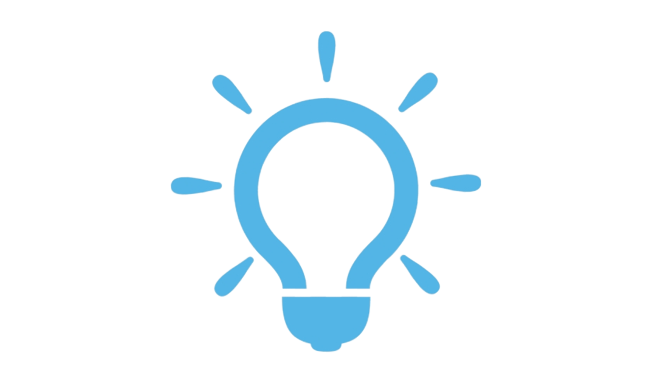
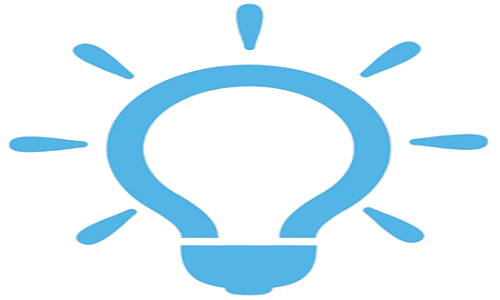
Many update make done

diff --git a/index.html b/index.html
@@ -8,7 +8,10 @@
     <link rel="stylesheet" href="css/style.css">
     <link rel="stylesheet" href="css/animation.css">
     <link rel="shortcut icon" href="images/favicon.png" type="image/x-icon">
+    <link rel="stylesheet" href="css/phone.css">
+    <script src="https://kit.fontawesome.com/502fabee15.js" crossorigin="anonymous"></script>
     <title>Sajibur Rahman </title>
+    <script src="https://kit.fontawesome.com/a076d05399.js"></script>
 </head>
 
 <body>
@@ -22,14 +25,17 @@
                     <img src="images/sa (1).gif" alt="">
                 </a>
             </div>
-            <nav>
+            <nav id="navMenu">
                 <a href="#mainIntro">Home</a>
                 <a href="#project">Projects</a>
-                <a href="">Contuct Me</a>
+                <a href="#contuct">Contuct Me</a>
                 <a href="#skill">Skills</a>
             </nav>
             <div class="header_btn_resume">
                 <a href="Documents/Md.Sajibur Rahman.pdf" target="_blank">Download Resume</a>
+            </div>
+            <div id="iconMenu">
+                <i onclick="menuHandaler()" class="fas fa-bars"></i>
             </div>
         </div>
     </header>
@@ -60,11 +66,16 @@
                     <img src="project/inventory.PNG" class="card-img-top" alt="...">
                     <div class="card-body">
                         <h2 class="card-title">Inventory Management System</h2>
-                        <p class="card-text">Some quick example text to build on the card title and make up the bulk
-                            of the card's content.</p>
+                        <p class="card-text">This is my first web project in University . I use html,css,php & mysqul to
+                            devlop the webpage.For server site, I use Xampp to store our data & create Crud operation in
+                            this project.This Project store the product information,edit information,read the
+                            information & search .I also implement the product order information & print that order .
+                        </p>
                         <div class="btn-link">
-                            <a href="">Live Link</a>
-                            <a href="">GitHub Repository</a>
+                            <a target="_blank" href="http://inventory-management.epizy.com/">Live Link</a>
+                            <a target="_blank"
+                                href="https://github.com/sajiburrahmansajib/DBMS-Project-Inventory-system-">GitHub
+                                Repository</a>
                         </div>
                     </div>
                 </div>
@@ -72,11 +83,17 @@
                     <img src="project/Alikehome.PNG" class="card-img-top" alt="...">
                     <div class="card-body">
                         <h2 class="card-title">Alike Home | Student Hostel</h2>
-                        <p class="card-text">Some quick example text to build on the card title and make up the bulk
-                            of the card's content.</p>
+                        <p class="card-text">We are going to introduce a platform which will help students to find
+                            suitable Hostel
+                            for them in a specific area. Hostel owners will also be able to advertise their hostel in
+                            our platform. Our stakeholders are Students and Hostel Owners.
+                            We will discuss our project motivation, scope & features, tools and techniques etc later on
+                            in this presentation.
+                        </p>
                         <div class="btn-link">
-                            <a href="">Live Link</a>
-                            <a href="">GitHub Repository</a>
+                            <a target="_blank" href="http://alikehome.rf.gd/">Live Link</a>
+                            <a target="_blank" href="https://github.com/sajiburrahmansajib/alikehome">GitHub
+                                Repository</a>
                         </div>
                     </div>
                 </div>
@@ -84,11 +101,16 @@
                     <img src="project/Pizza.PNG" class="card-img-top" alt="...">
                     <div class="card-body">
                         <h2 class="card-title">Pizza Order Counter</h2>
-                        <p class="card-text">Some quick example text to build on the card title and make up the bulk
-                            of the card's content.</p>
+                        <p class="card-text">This is my first React.Js project that i build . I build a pizza order
+                            counter that count the number of pizza order . I use change state method to build the simple
+                            project.In change state property,I use useState() method to change the counter value.I make
+                            a component & call it 3 time in different props value & show the component. Then i was
+                            diploy it in Github.</p>
                         <div class="btn-link">
-                            <a href="">Live Link</a>
-                            <a href="">GitHub Repository</a>
+                            <a target="_blank" href="https://sajiburrahmansajib.github.io/PizzaOrderCounter/">Live
+                                Link</a>
+                            <a target="_blank" href="https://github.com/sajiburrahmansajib/PizzaOrderCounter">GitHub
+                                Repository</a>
                         </div>
                     </div>
                 </div>
@@ -99,8 +121,11 @@
                         <p class="card-text">Some quick example text to build on the card title and make up the bulk
                             of the card's content.</p>
                         <div class="btn-link">
-                            <a href="">Live Link</a>
-                            <a href="">GitHub Repository</a>
+                            <a target="_blank" href="https://sajiburrahmansajib.github.io/Cryptocurrency-Finding/">Live
+                                Link</a>
+                            <a target="_blank"
+                                href="https://github.com/sajiburrahmansajib/Cryptocurrency-Finding">GitHub
+                                Repository</a>
                         </div>
                     </div>
                 </div>
@@ -111,8 +136,10 @@
                         <p class="card-text">Some quick example text to build on the card title and make up the bulk
                             of the card's content.</p>
                         <div class="btn-link">
-                            <a href="">Live Link</a>
-                            <a href="">GitHub Repository</a>
+                            <a target="_blank" href="https://admirable-bombolone-a15926.netlify.app/">Live Link</a>
+                            <a target="_blank"
+                                href="https://github.com/programming-hero-web-course2/best-five-dom-assignment-sajiburrahmansajib">GitHub
+                                Repository</a>
                         </div>
                     </div>
                 </div>
@@ -123,8 +150,10 @@
                         <p class="card-text">Some quick example text to build on the card title and make up the bulk
                             of the card's content.</p>
                         <div class="btn-link">
-                            <a href="">Live Link</a>
-                            <a href="">GitHub Repository</a>
+                            <a target="_blank" href="https://sajiburrahmansajib.github.io/Phone-Searching/">Live
+                                Link</a>
+                            <a target="_blank" href="https://github.com/sajiburrahmansajib/Phone-Searching">GitHub
+                                Repository</a>
                         </div>
                     </div>
                 </div>
@@ -195,7 +224,7 @@
                 </div>
                 <div class="languageSkill">
                     <div class="imgDiv">
-                        <img src="images/skill-removebg-preview.png" alt="">
+                        <img src="images/newskill-removebg-preview.png" alt="">
                     </div>
                     <div class="skill_title">
                         <h1>Skills </h1>
@@ -239,6 +268,7 @@
         })
 
     </script>
+    <script src="js/app.js"></script>
 </body>
 
 </html>

diff --git a/css/style.css b/css/style.css
@@ -51,6 +51,16 @@ header {
 
 .mainheader nav a:hover {
     background-color: lightslategrey;
+    transition: .20s;
+}
+
+#iconMenu {
+    color: #0ad171;
+    font-size: 30px;
+    line-height: 20px;
+    float: left;
+    margin-right: 50px;
+    display: none;
 }
 
 .mainheader .header_btn_resume a {
@@ -129,11 +139,22 @@ header {
 
 .card {
     border: 5px solid black;
-    width: 430px;
+    width: 450px;
     text-align: center;
     padding: 15px;
     box-shadow: 5px 5px 5px gray;
     border-radius: 10px;
+}
+
+.card img {
+    border-radius: 12px;
+}
+
+.card:hover {
+    z-index: 1;
+    box-shadow: 0px 8px 50px rgb(30, 104, 6);
+    transform: scale(1.02);
+    background-color: rgb(136, 190, 136);
 }
 
 .project_info {
@@ -181,11 +202,13 @@ header {
 .skillMain img {
     width: 50%;
     text-align: center;
-    border: 5px solid black;
-    border-radius: 200px;
+    border-radius: 100px;
+    background-color: #fff;
+    border: 4px solid crimson;
 }
 
 .imgDiv {
+    width: 380px;
     text-align: center;
 }
 
@@ -204,6 +227,7 @@ header {
     background-color: rgb(70, 64, 64);
     color: white;
     padding: 10px 0px;
+    margin-top: 15px;
 
 }
 

diff --git a/css/phone.css b/css/phone.css
@@ -1,0 +1,32 @@
+@media only screen and (min-width: 320px) and (max-width: 800px) {
+    #iconMenu {
+        display: block;
+    }
+
+    nav {
+        position: fixed;
+        width: 100%;
+        height: 50vh;
+        background-color: rgb(97, 104, 104);
+        top: 100px;
+        left: 0;
+        text-align: center;
+        display: flex;
+        flex-direction: column;
+        display: none;
+    }
+
+    .header_btn_resume {
+        position: fixed;
+        width: 40%;
+        height: 10vh;
+        top: 445px;
+        left: 100px;
+        display: flex;
+        flex-direction: column;
+    }
+
+    .iconMenu {
+        margin-right: 120px;
+    }
+}

diff --git a/js/app.js b/js/app.js
@@ -1,0 +1,4 @@
+const menuHandaler = () => {
+    const menuDiv = document.getElementById('iconMenu');
+    menuDiv.style.display = 'inline';
+}
